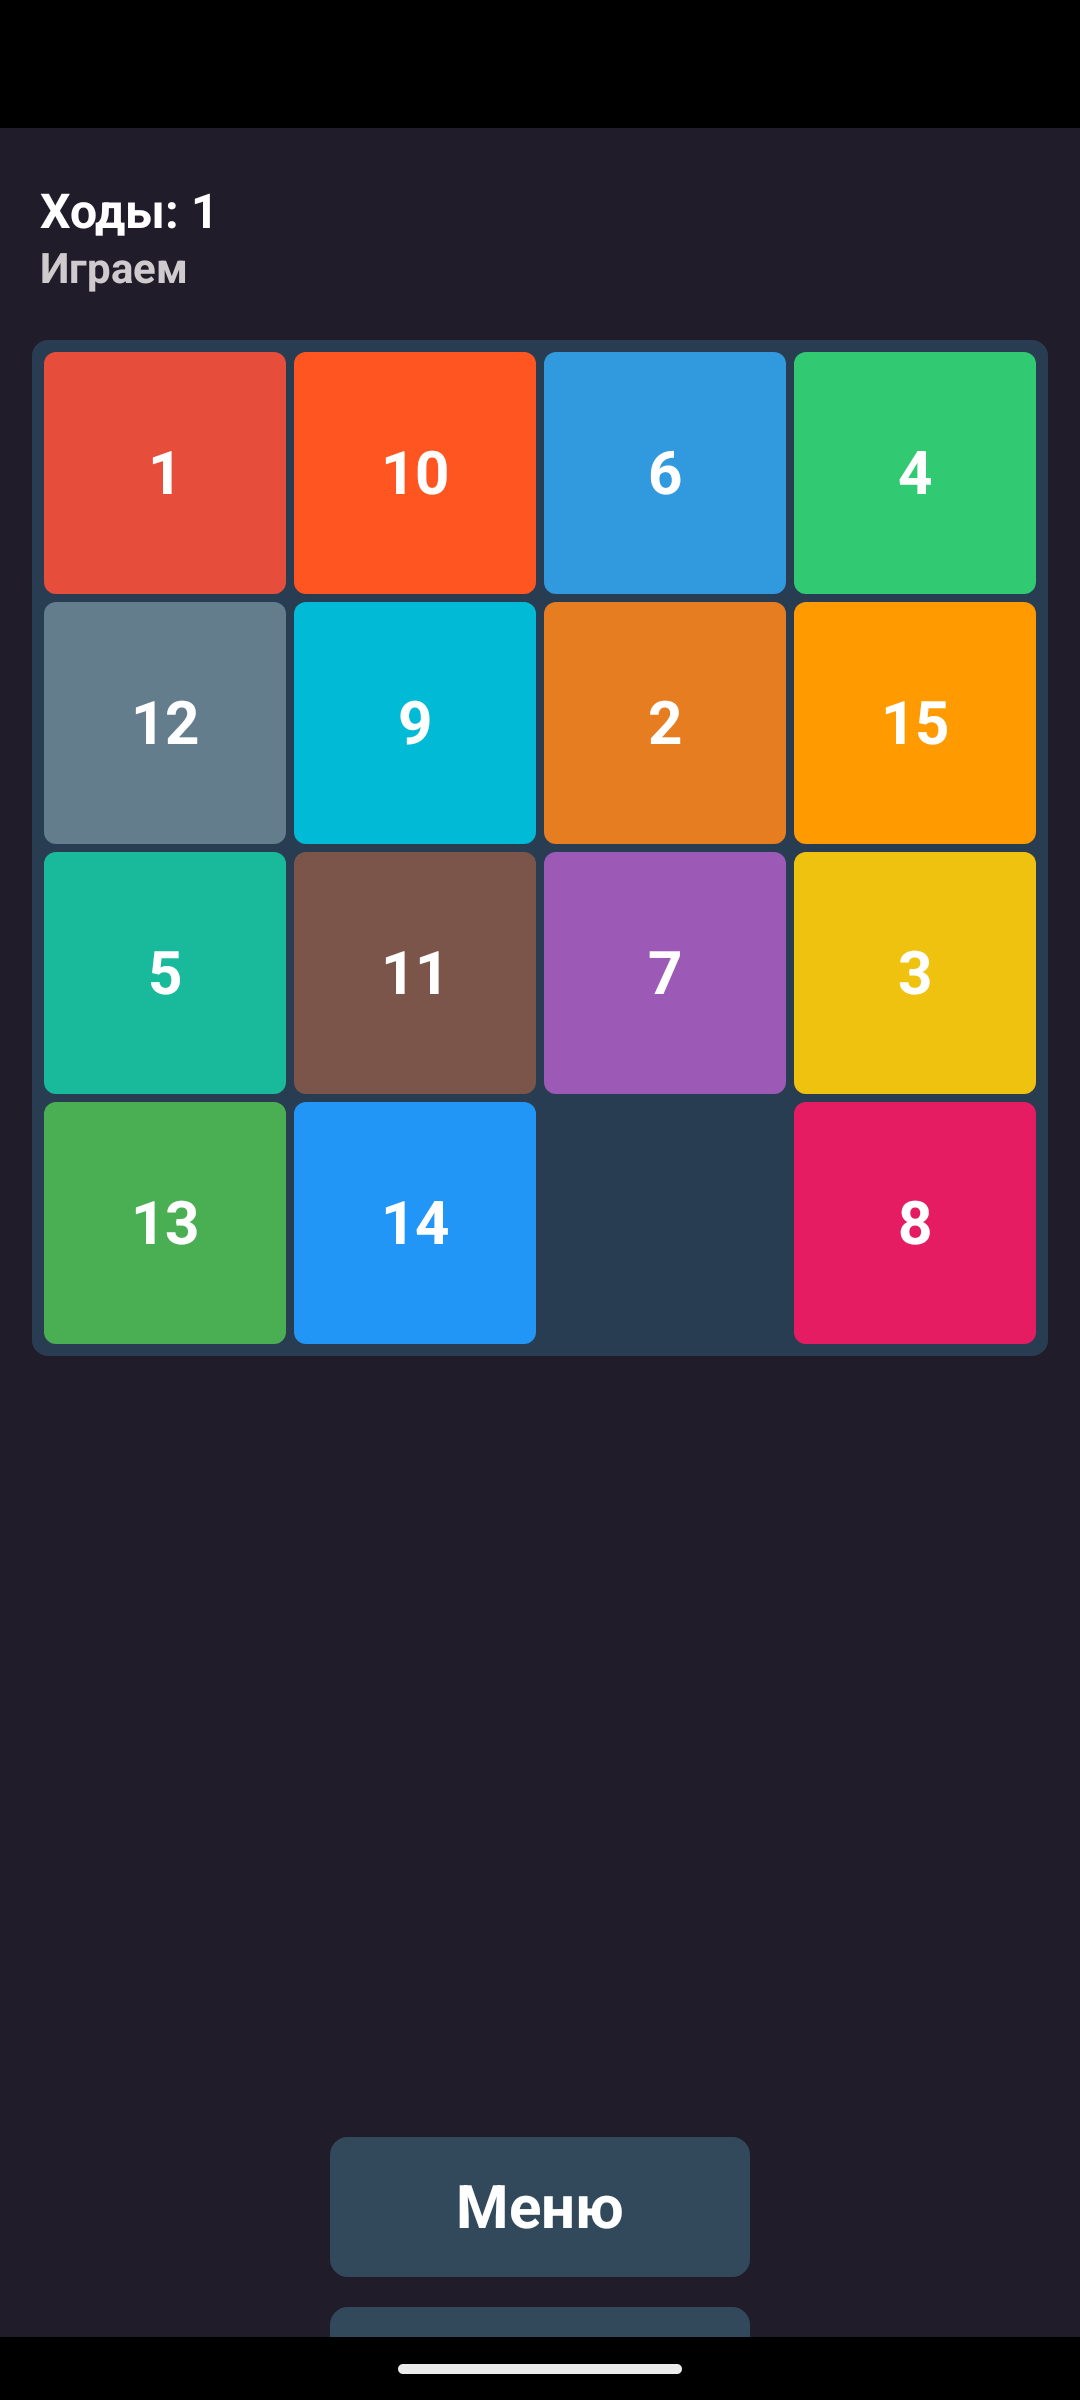
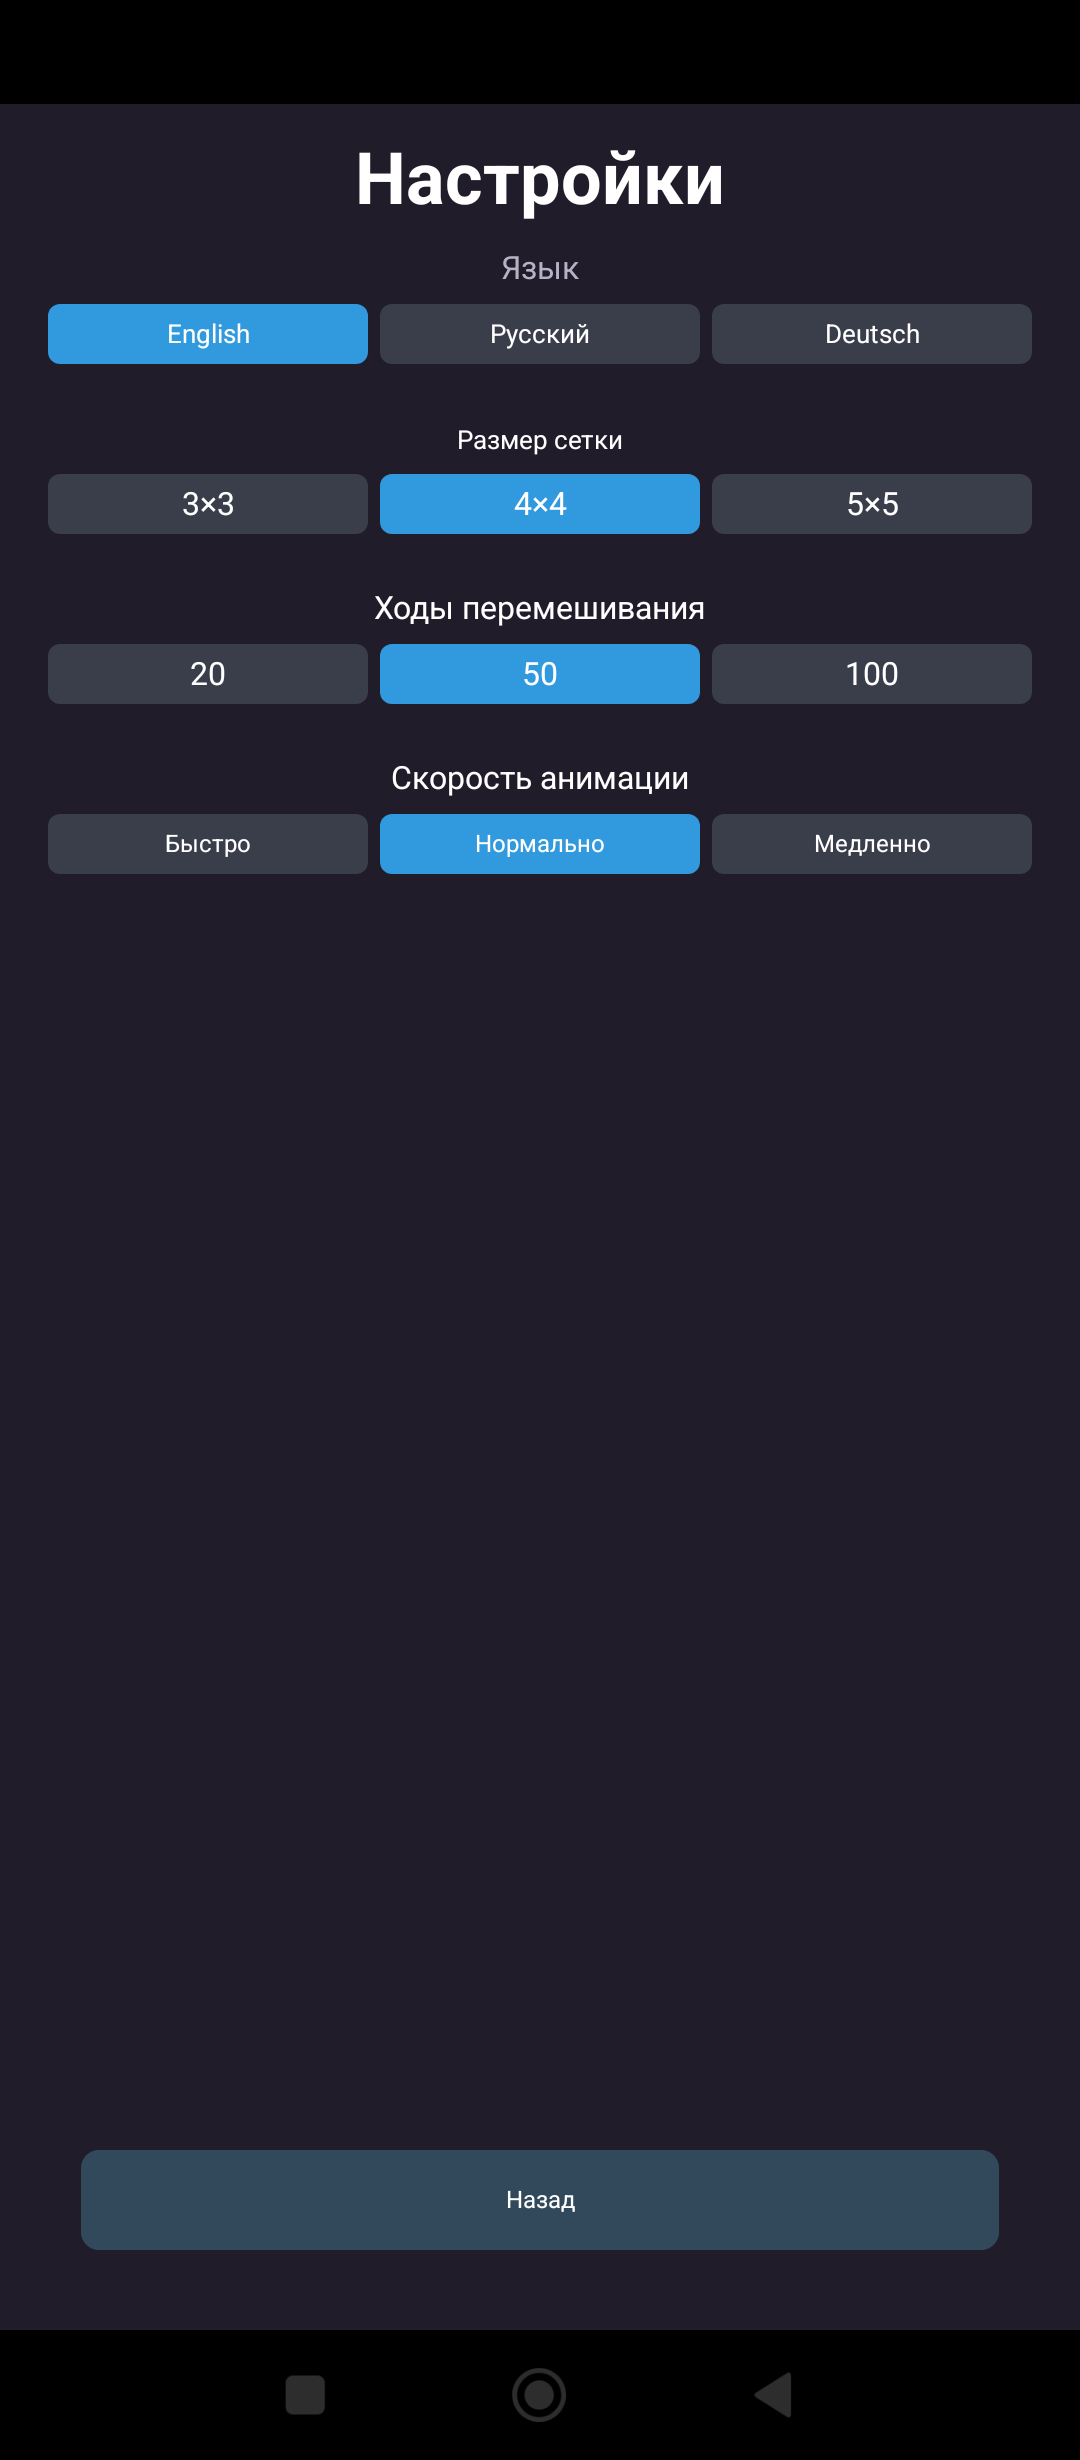
Fix Android layout: make buttons adaptive to screen width
- Buttons now use 85% screen width instead of fixed 420px
- Game screen buttons positioned between grid and screen bottom
- Settings options scale with screen width
- Update screenshots from physical device
- Update README with Android screenshot table

diff --git a/android/src/main/kotlin/com/game/puzzle/android/AndroidLauncher.kt b/android/src/main/kotlin/com/game/puzzle/android/AndroidLauncher.kt
@@ -146,21 +146,27 @@ class PuzzleView(private val activity: AndroidLauncher) : SurfaceView(activity),
         tileSize = (screenW - 80f) / gridSize
         gridOffsetX = (screenW - tileSize * gridSize) / 2f
         gridOffsetY = 220f
-        val btnStartX = (screenW - 420f) / 2f
-        val btnY = screenH - 140f - 60f
-        menuBtn = RectF(btnStartX, btnY, btnStartX + 420f, btnY + 140f)
-        resetBtn = RectF(btnStartX, btnY + 170f, btnStartX + 420f, btnY + 310f)
 
-        playBtn = RectF((screenW - 420f) / 2f, screenH / 2f - 120f, (screenW + 420f) / 2f, screenH / 2f - 20f)
-        settingsBtn = RectF((screenW - 420f) / 2f, screenH / 2f + 10f, (screenW + 420f) / 2f, screenH / 2f + 110f)
-        quitBtn = RectF((screenW - 420f) / 2f, screenH / 2f + 140f, (screenW + 420f) / 2f, screenH / 2f + 240f)
-        backBtn = RectF((screenW - 420f) / 2f, screenH - 240f, (screenW + 420f) / 2f, screenH - 140f)
+        val btnW = screenW * 0.85f
+        val btnH = 100f
+        val btnGap = 24f
+        val btnStartX = (screenW - btnW) / 2f
+
+        val gridBottom = gridOffsetY + tileSize * gridSize + 30f
+        val gameBtnY = (gridBottom + screenH - btnH * 2 - btnGap) / 2f
+        menuBtn = RectF(btnStartX, gameBtnY, btnStartX + btnW, gameBtnY + btnH)
+        resetBtn = RectF(btnStartX, gameBtnY + btnH + btnGap, btnStartX + btnW, gameBtnY + btnH * 2 + btnGap)
+
+        val menuBtnY = screenH / 2f - 120f
+        playBtn = RectF(btnStartX, menuBtnY, btnStartX + btnW, menuBtnY + btnH)
+        settingsBtn = RectF(btnStartX, menuBtnY + btnH + btnGap, btnStartX + btnW, menuBtnY + btnH * 2 + btnGap)
+        quitBtn = RectF(btnStartX, menuBtnY + (btnH + btnGap) * 2, btnStartX + btnW, menuBtnY + btnH * 3 + btnGap * 2)
+        backBtn = RectF(btnStartX, screenH - 180f, btnStartX + btnW, screenH - 80f)
 
         settingsGridRects.clear(); settingsShuffleRects.clear(); settingsSpeedRects.clear(); settingsLangRects.clear()
-        val optW = 150f; val optGap = 15f
+        val optW = (screenW - 120f) / 3f; val optGap = 12f
         for (i in 0..2) {
-            val totalW = 3 * optW + 2 * optGap
-            val sx = (screenW - totalW) / 2f + i * (optW + optGap)
+            val sx = (screenW - (optW * 3 + optGap * 2)) / 2f + i * (optW + optGap)
             settingsLangRects.add(RectF(sx, 200f, sx + optW, 260f))
             settingsGridRects.add(RectF(sx, 370f, sx + optW, 430f))
             settingsShuffleRects.add(RectF(sx, 540f, sx + optW, 600f))

diff --git a/README.md b/README.md
@@ -4,15 +4,10 @@ Classic sliding tile puzzle game built with Kotlin. Runs on Android and Desktop.
 
 ## Screenshots
 
-### Desktop | Android
+| Splash | Menu | Settings | Game |
+|--------|------|----------|------|
+| ![Splash](screenshots/android_splash.png) | ![Menu](screenshots/android_menu.png) | ![Settings](screenshots/android_settings.png) | ![Game](screenshots/android_game.png) |
 
-| Menu | Game
-| ![Splash](screenshots/desktop_splash.png)  ![Game](screenshots/desktop_game.png)
-
-
-### Settings
-
-![All Apps & GitHub](screenshots/all_apps_github.png)
 ## Features
 
 - Splash screen with tile animation